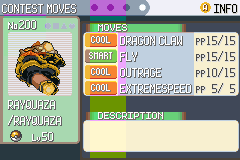
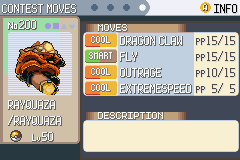
ui-skin mockups: type and contest label chips keep vanilla colours; summary creature protected

Changed region(s): [[0.0, 0.0, 0.7583, 0.9062], [0.0583, 0.25, 0.2625, 0.4688], [0.35, 0.9375, 0.525, 1.0]]

diff --git a/tools/ui-skin-generator/mockup.py b/tools/ui-skin-generator/mockup.py
@@ -36,9 +36,9 @@ rule(r'^01', only=[(168,0,240,160)])
 rule(r'^(05|06|80|h05)', only=[BOT,(0,0,90,24)])
 rule(r'^25', only=[(168,0,240,160)])
 rule(r'^43', only=[BOT,(0,0,120,112)])
+rule(r'^(1[2-6]_|19g|h36)', protect=[(4,18,60,74)])
 rule(r'^(1[0-9]_|b06|b07|h22)', protect=[(4,14,46,56),(90,0,126,160)], fam='party')
 rule(r'^19[b-f]', protect=[(4,14,46,56),(90,0,126,160)], fam='levelup')
-rule(r'^(1[2-6]_|19g|h36)', protect=[(4,18,60,74)])
 rule(r'^20', protect=[(56,28,122,110)])
 rule(r'^21', protect=[(6,22,74,90)])
 rule(r'^22', protect=[(0,16,240,128)])
@@ -78,16 +78,26 @@ rule(r'^h2[3567]', only=[BOT,(160,0,240,112)])
 rule(r'^h2[48]', protect=[(0,20,60,112)])
 rule(r'^h29', protect=[(40,16,200,144)])
 rule(r'^h3[45]', protect=[(4,18,72,84)])
+# Type and contest-category label chips keep their vanilla colours (owner's call), on top of each screen's rule.
+def _pal(path):
+    L=open(path).read().split()[3:]; return [tuple(int(v) for v in L[i:i+3]) for i in range(0,48,3)]
+CHIPCOL={tuple(v>>3 for v in c) for n in (1,2,3) for c in _pal(HERE/f'../../game/graphics/types/move_types_{n}.pal')}
+def chip_px(c): return tuple(v>>3 for v in c) in CHIPCOL
+CHIPS=[(re.compile(r'^12_'),[(118,48,194,62)]),
+       (re.compile(r'^(1[3-6]_|19g|h36)'),[(64,32,100,96)])]
 def inside(x,y,rs): return any(x0<=x<x1 and y0<=y<y1 for x0,y0,x1,y1 in rs)
 def run(f):
-    only,protect,fam=[],[],'ui'
+    only,protect,fam,chips=[],[],'ui',[]
     for p,(o,pr,fm) in R.items():
         if p.match(f): only,protect,fam=o,pr,fm; break
+    for p,rs in CHIPS:
+        if p.match(f): chips=rs
     im=Image.open(f'{SRC}/{f}').convert('RGB'); px=im.load(); cache={}
     for y in range(im.height):
         for x in range(im.width):
             if protect and inside(x,y,protect): continue
             if only and not inside(x,y,only): continue
+            if chips and inside(x,y,chips) and chip_px(px[x,y]): continue
             c=px[x,y]; k=(c,fam)
             if k not in cache: cache[k]=tx(c,fam)
             px[x,y]=cache[k]
